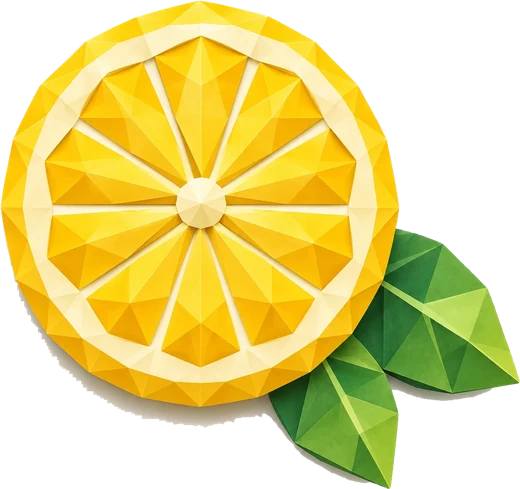
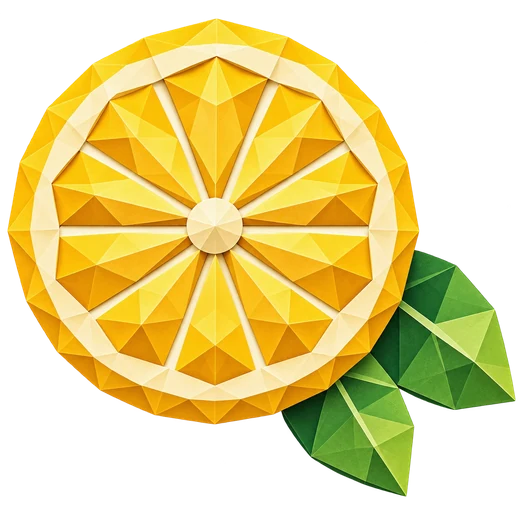
Trophäen Steine, Herzen, Klangschale; neue Karte 3, Karte 24 gold, neue Zitrone, Hund weiter vorne (1.62.1)

diff --git a/index.html b/index.html
@@ -614,7 +614,7 @@ html:not(.zoom-ok), html:not(.zoom-ok) body, html:not(.zoom-ok) body *:not(input
 .shelf-img{ position:relative; width:min(100%, calc(100vh - var(--nav-h, 70px) - 150px), 1000px); aspect-ratio:1; background:url(img/shelf.webp) center/contain no-repeat; }
 .shelf-img + .shelf-img{ margin-top:-12%; }
 /* the dog sits a little to the side in front of the shelf, his head just above the lowest board */
-.shelf-dog{ position:absolute; right:7%; bottom:3%; height:30%; transform:rotate(-4deg); z-index:2; pointer-events:none; filter:drop-shadow(0 8px 10px rgba(0,0,0,0.55)); }
+.shelf-dog{ position:absolute; right:11%; bottom:-3%; height:29%; transform:rotate(-4deg); z-index:2; pointer-events:none; filter:drop-shadow(0 8px 10px rgba(0,0,0,0.55)); }
 .shelf-comp{ position:absolute; display:flex; align-items:flex-end; justify-content:flex-start; gap:0 1.5cqh; padding:0 2cqh; container-type:size; overflow:visible; }
 .shelf-comp .shelf-trophy{ margin:0 2cqh; transform:translateY(2.7cqh); } /* trophies a little further forward than the books */
 .shelf-comp .shelf-trophy:hover, .shelf-comp .shelf-trophy:active{ transform:translateY(2.7cqh) scale(1.06); }
@@ -1248,7 +1248,7 @@ table.goal-table, .goal-table th, .goal-table td, .goal-table tr.tbl-head th, .g
 
 <script>
 /* Bump on every published update, so it's visible at a glance whether the newest version is loaded. */
-const APP_VERSION = '1.62.0';
+const APP_VERSION = '1.62.1';
 // Starter entries for Achtsamkeit: the samples are only used when the app has no saved data yet (a genuinely
 // fresh browser) — after that, each person's own additions and deletions are theirs alone.
 const DEFAULT_MEDITATIONEN = [
@@ -5000,6 +5000,12 @@ function trophyDefs(){
   grow('lemon', ev.byEx('seed-lemon'), [[3, 'trophy-lemon-1', 0.5], [10, 'trophy-lemon-2', 0.75], [25, 'trophy-lemon-3', 1]], 0.68,
     (n, i)=>L(['Zitronenblüte unter Glas', 'Zitronenzweig unter Glas', 'Zitrone unter Glas'][i], ['Lemon blossom under glass', 'Lemon branch under glass', 'Lemon under glass'][i]),
     n=>L(n + '-mal Lemonmeditation – dein Zitronenzweig trägt Früchte.', 'Lemon meditation ' + n + ' times – your lemon branch bears fruit.'));
+  grow('stones', ev.byEx('seed-54321'), [[3, 'trophy-stones-1', 0.5], [10, 'trophy-stones-2', 0.75], [25, 'trophy-stones-3', 1]], 0.66,
+    (n, i)=>L(['Zwei Steine unter Glas', 'Steinturm mit Keimling unter Glas', 'Großer Steinturm unter Glas'][i], ['Two stones under glass', 'Stone tower with a sprout under glass', 'Great stone tower under glass'][i]),
+    n=>L(n + '-mal 5-4-3-2-1 – Stein für Stein findest du zu dir.', '5-4-3-2-1 ' + n + ' times – stone by stone you come back to yourself.'));
+  grow('bowl', ev.byEx('seed-stille'), [[3, 'trophy-bowl-1', 0.5], [10, 'trophy-bowl-2', 0.75], [25, 'trophy-bowl-3', 1]], 0.66,
+    (n, i)=>L(['Klangschale unter Glas', 'Klangschale mit Klöppel unter Glas', 'Klingende Schale unter Glas'][i], ['Singing bowl under glass', 'Singing bowl with striker under glass', 'Sounding bowl under glass'][i]),
+    n=>L(n + '-mal Stille Meditation – die Stille klingt in dir nach.', 'Silent meditation ' + n + ' times – the stillness resonates in you.'));
   // days in a row: a crystal that grows
   const streakMax = Object.keys(ev.streakAt).length ? Math.max(...Object.keys(ev.streakAt).map(Number)) : 0;
   [3, 5, 7, 14, 30, 100].forEach((n, i)=>out.push({ id:'streak' + n, group:'streak', stage:i, kind:'img', img:'crystal-' + (i + 1), scale:0.55 + i * 0.08, aspect:0.75, need:1, needShow:n,
@@ -5015,7 +5021,7 @@ function trophyDefs(){
   grow('page', ev.pages, [[1, 'orb-blue', 0.5], [10, 'orb-blue', 0.62], [50, 'orb-blue', 0.74], [100, 'orb-blue', 0.86]], 0.85,
     n=>n === 1 ? L('Erste Tagebuchseite', 'First diary page') : L(n + ' Tagebuchseiten', n + ' diary pages'),
     n=>L(n === 1 ? 'Du hast die erste Seite in dein Tagebuch geschrieben.' : 'Du hast ' + n + ' Seiten in dein Tagebuch geschrieben.', n === 1 ? 'You wrote the first page of your diary.' : 'You wrote ' + n + ' diary pages.'));
-  grow('grat', ev.grat, [[1, 'orb-pink', 0.55], [7, 'orb-pink', 0.72], [30, 'orb-pink', 0.88]], 0.88,
+  grow('grat', ev.grat, [[1, 'trophy-hearts-1', 0.5], [7, 'trophy-hearts-2', 0.75], [30, 'trophy-hearts-3', 1]], 0.66,
     n=>n === 1 ? L('Erste Dankbarkeit', 'First gratitude') : L(n + ' Abende Dankbarkeit', n + ' evenings of gratitude'),
     n=>L(n === 1 ? 'Du hast zum ersten Mal aufgeschrieben, wofür du dankbar bist.' : 'An ' + n + ' Abenden hast du aufgeschrieben, wofür du dankbar bist.', n === 1 ? 'You wrote down for the first time what you are grateful for.' : 'On ' + n + ' evenings you wrote down what you are grateful for.'));
   out.push({ id:'up10', kind:'img', img:'orb-green', scale:0.7, aspect:0.83, need:1, list:ev.improved10 ? [ev.improved10] : [], title:L('Plus 10', 'Plus 10'), desc:L('Ein Lebensbereich ist um 10 Punkte gewachsen.', 'One area of life grew by 10 points.') });

diff --git a/CLAUDE.md b/CLAUDE.md
@@ -124,7 +124,7 @@ Der Nutzer ist kein Entwickler. Erkläre Schritte einfach und auf Deutsch.
 - Veröffentlicht über **GitHub Pages** aus diesem Repository (Branch `main`, Ordner `/`):
   https://k9vk58y99f-max.github.io/k9vk58y99f-max.github.io-ewolfe-app-/
 - Ein Commit + Push auf `main` ist die Veröffentlichung; nach 1–2 Minuten ist es live.
-- Bei jeder Änderung `APP_VERSION` erhöhen (aktuell `1.62.0`) und `APP_BUILD` anpassen.
+- Bei jeder Änderung `APP_VERSION` erhöhen (aktuell `1.62.1`) und `APP_BUILD` anpassen.
   Die Version steht unten in der App.
 
 ## Neu seit 1.55.0 (iPad, Wischen, Tagebuch, Sticker, Impulskarten)
